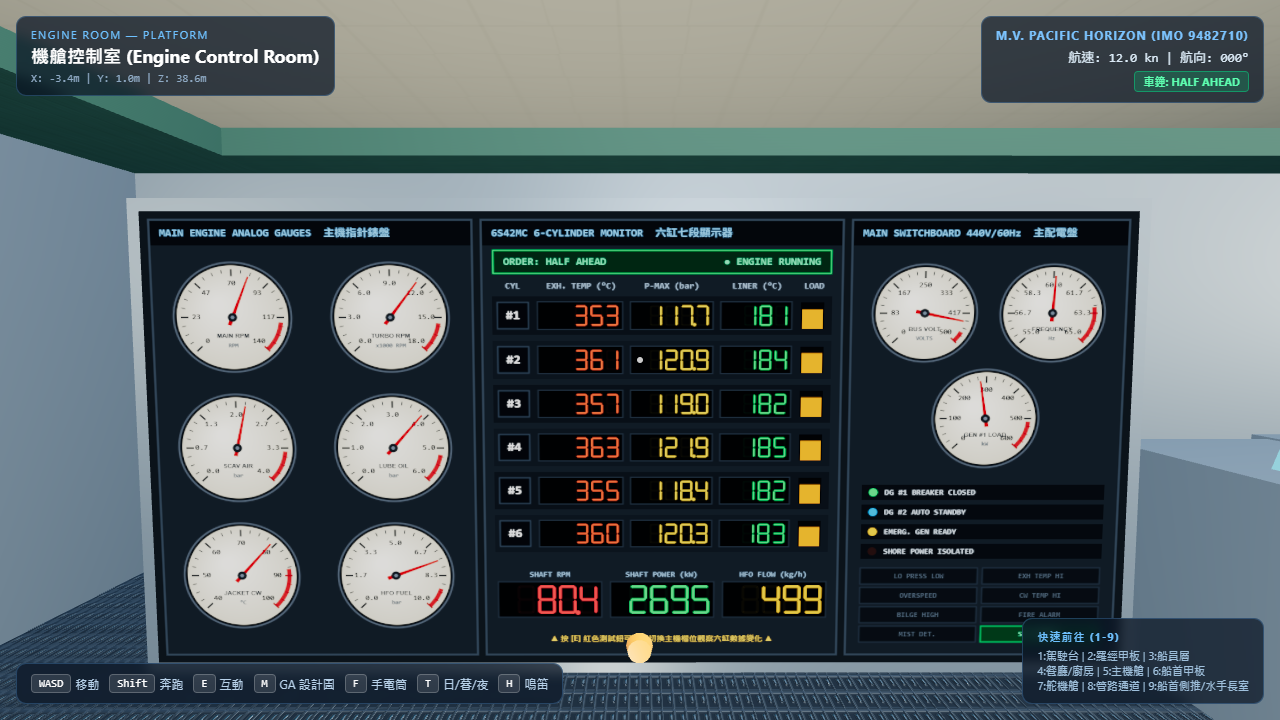
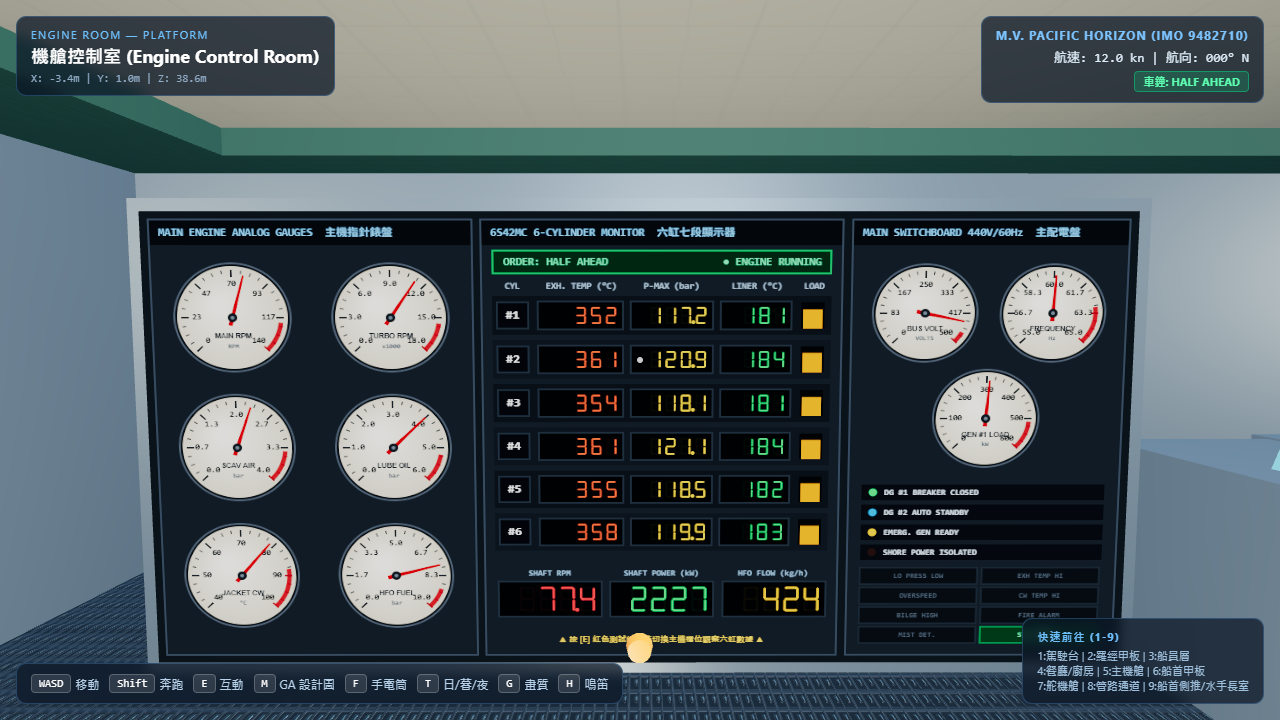
Major 4-stage performance boost: 6-light pool, static mesh merging, smart shadows, quality mode & FPS HUD

diff --git a/index.html b/index.html
@@ -189,6 +189,7 @@
     <span><kbd>M</kbd> GA 設計圖</span>
     <span><kbd>F</kbd> 手電筒</span>
     <span><kbd>T</kbd> 日/暮/夜</span>
+    <span><kbd>G</kbd> 畫質</span>
     <span><kbd>H</kbd> 鳴笛</span>
   </div>
 
@@ -226,7 +227,8 @@
   const container = document.getElementById('canvas-container');
   const renderer = new THREE.WebGLRenderer({ antialias: true, powerPreference: 'high-performance' });
   renderer.setSize(window.innerWidth, window.innerHeight);
-  renderer.setPixelRatio(Math.min(window.devicePixelRatio, 2));
+  // Default Balanced DPR (<=1.25 cuts 4K/Retina pixel fill by ~60% with crisp visuals; toggle [G] for Ultra/Performance!)
+  renderer.setPixelRatio(Math.min(window.devicePixelRatio, 1.25));
   renderer.shadowMap.enabled = true;
   renderer.shadowMap.type = THREE.PCFSoftShadowMap;
   renderer.outputEncoding = THREE.sRGBEncoding;
@@ -265,11 +267,11 @@
   scene.add(sunLight);
   scene.add(sunLight.target);
 
-  // Flashlight attached to camera (with real-time shadows!)
+  // Flashlight attached to camera (shadows dynamically enabled ONLY when flashlight is ON!)
   const flashlight = new THREE.SpotLight(0xfff6e0, 0, 38, Math.PI / 4.2, 0.55, 1.25);
   flashlight.position.set(0, -0.08, 0);
   flashlight.target.position.set(0, -0.08, -1);
-  flashlight.castShadow = true;
+  flashlight.castShadow = false;
   flashlight.shadow.mapSize.width = 1024;
   flashlight.shadow.mapSize.height = 1024;
   flashlight.shadow.camera.near = 0.25;
@@ -1096,6 +1098,7 @@
     if (len < 0.1) return;
     const angle = Math.atan2(dx, dz);
     const group = new THREE.Group();
+    group.userData.mergeable = true;
     group.position.set((x1 + x2) / 2, yBase, (z1 + z2) / 2);
     group.rotation.y = angle;
 
@@ -1222,7 +1225,45 @@
     ctx.fillRect(0, 0, w, h);
   });
 
-  // Helper: Interior Ceiling Light
+  // Helper: Interior Ceiling Light (Virtual Light Descriptor -> Dynamic 6-Light Pool for 3x-5x GPU FPS!)
+  const LIGHT_POOL_SIZE = 6;
+  const lightPool = [];
+  for (let i = 0; i < LIGHT_POOL_SIZE; i++) {
+    const pl = new THREE.PointLight(0xfff3dd, 0, 16, 1.4);
+    pl.position.set(0, -999, 0);
+    shipGroup.add(pl);
+    lightPool.push(pl);
+  }
+  let lightPoolTimer = 99;
+  function updateLightPool(dt, isPitchBlack) {
+    lightPoolTimer += dt;
+    if (lightPoolTimer < 0.12) return;
+    lightPoolTimer = 0;
+    if (isPitchBlack) {
+      for (let i = 0; i < LIGHT_POOL_SIZE; i++) lightPool[i].intensity = 0;
+      return;
+    }
+    const px = player.pos.x, py = player.pos.y + 1.4, pz = player.pos.z;
+    // Score all virtual interior lights by distance (heavily favoring current deck Y)
+    const ranked = interiorLights.map(vl => {
+      const dx = vl.pos.x - px, dy = (vl.pos.y - py) * 2.4, dz = vl.pos.z - pz;
+      return { vl, d2: dx * dx + dy * dy + dz * dz };
+    });
+    ranked.sort((a, b) => a.d2 - b.d2);
+    for (let i = 0; i < LIGHT_POOL_SIZE; i++) {
+      const pl = lightPool[i];
+      if (i < ranked.length && ranked[i].d2 < 900) {
+        const vl = ranked[i].vl;
+        pl.position.copy(vl.pos);
+        pl.color.copy(vl.color);
+        pl.intensity = vl.intensity;
+        pl.distance = vl.distance;
+      } else {
+        pl.intensity = 0;
+      }
+    }
+  }
+
   function addInteriorLight(x, y, z, intensity = 0.85, distance = 16, color = 0xfff3dd) {
     const bulb = new THREE.Mesh(
       new THREE.BoxGeometry(0.9, 0.08, 0.22),
@@ -1237,11 +1278,9 @@
     halo.position.set(x, y - 0.08, z);
     halo.scale.set(1.6, 0.9, 1);
     shipGroup.add(halo);
-    const light = new THREE.PointLight(color, intensity, distance, 1.4);
-    light.position.set(x, y - 0.25, z);
-    shipGroup.add(light);
-    interiorLights.push(light);
-    return light;
+    const vLight = { pos: new THREE.Vector3(x, y - 0.25, z), intensity, distance, color: new THREE.Color(color) };
+    interiorLights.push(vLight);
+    return vLight;
   }
 
   // Helper: 1:1 Marine Sanitary Fixtures (Toilet, Washbasin+Mirror, Shower Unit)
@@ -3355,6 +3394,92 @@
   buildCompassDeck();
 
   // =========================================================================
+  // STATIC GEOMETRY MERGER (Collapses ~1,200+ static meshes into ~35 Draw Calls!)
+  // =========================================================================
+  function mergeStaticShipMeshes() {
+    shipGroup.updateMatrixWorld(true);
+    const skip = new Set();
+    interactables.forEach(it => { if (it.mesh) skip.add(it.mesh); });
+    if (radarScanner1) skip.add(radarScanner1);
+    if (radarScanner2) skip.add(radarScanner2);
+
+    const buckets = new Map();
+    const toRemove = [];
+
+    function collectMesh(mesh) {
+      if (!mesh.isMesh || skip.has(mesh)) return;
+      if (!mesh.geometry || Array.isArray(mesh.material) || !mesh.material) return;
+      if (mesh.material.map === ecrPanelTex || mesh.material.map === radarTex) return;
+      const mat = mesh.material;
+      // Disable sun shadow casting for below-deck / interior meshes to slash shadow pass cost
+      const worldY = mesh.matrixWorld.elements[13];
+      const castS = mesh.castShadow && worldY >= 3.6;
+      const key = `${mat.id}|${castS ? 1 : 0}|${mesh.receiveShadow ? 1 : 0}`;
+      if (!buckets.has(key)) buckets.set(key, { mat, castS, recvS: mesh.receiveShadow, meshes: [] });
+      buckets.get(key).meshes.push(mesh);
+    }
+
+    for (let i = 0; i < shipGroup.children.length; i++) {
+      const child = shipGroup.children[i];
+      if (child.isMesh) {
+        collectMesh(child);
+      } else if (child.isGroup && child.userData && child.userData.mergeable) {
+        child.children.forEach(c => collectMesh(c));
+        toRemove.push(child);
+      }
+    }
+
+    buckets.forEach(({ mat, castS, recvS, meshes }) => {
+      if (meshes.length < 2) return;
+      const geoms = [];
+      let totalVerts = 0;
+      let hasUV = true;
+
+      for (let i = 0; i < meshes.length; i++) {
+        const m = meshes[i];
+        const g = m.geometry.index ? m.geometry.toNonIndexed() : m.geometry.clone();
+        g.applyMatrix4(m.matrixWorld);
+        if (!g.attributes.normal) g.computeVertexNormals();
+        if (!g.attributes.uv) hasUV = false;
+        totalVerts += g.attributes.position.count;
+        geoms.push(g);
+      }
+
+      const positions = new Float32Array(totalVerts * 3);
+      const normals = new Float32Array(totalVerts * 3);
+      const uvs = hasUV ? new Float32Array(totalVerts * 2) : null;
+      let offset = 0;
+
+      for (let i = 0; i < geoms.length; i++) {
+        const g = geoms[i];
+        const pos = g.attributes.position.array;
+        const norm = g.attributes.normal.array;
+        positions.set(pos, offset * 3);
+        normals.set(norm, offset * 3);
+        if (hasUV) uvs.set(g.attributes.uv.array, offset * 2);
+        offset += g.attributes.position.count;
+        g.dispose();
+      }
+
+      const merged = new THREE.BufferGeometry();
+      merged.setAttribute('position', new THREE.BufferAttribute(positions, 3));
+      merged.setAttribute('normal', new THREE.BufferAttribute(normals, 3));
+      if (hasUV) merged.setAttribute('uv', new THREE.BufferAttribute(uvs, 2));
+      merged.computeBoundingSphere();
+
+      const mergedMesh = new THREE.Mesh(merged, mat);
+      mergedMesh.castShadow = castS;
+      mergedMesh.receiveShadow = recvS;
+      shipGroup.add(mergedMesh);
+
+      meshes.forEach(m => { if (m.parent === shipGroup) shipGroup.remove(m); });
+    });
+
+    toRemove.forEach(g => shipGroup.remove(g));
+  }
+  mergeStaticShipMeshes();
+
+  // =========================================================================
   // 5. DYNAMIC OCEAN & SHIP WAKE (GPU Gerstner/Wave Normals + Fresnel + Sun Glitter)
   // =========================================================================
   const oceanGeo = new THREE.PlaneGeometry(1600, 1600, 128, 128);
@@ -3907,11 +4032,22 @@
     }
     if (!pointerLocked) return;
 
+    // Graphics Quality Modes: 0 = Balanced (1.25x DPR, Shadows ON), 1 = Performance (1.0x DPR, Shadows OFF), 2 = Ultra (2.0x DPR, Shadows ON)
     if (e.code === 'KeyF') {
       player.flashlightOn = !player.flashlightOn;
       flashlight.intensity = player.flashlightOn ? 3.8 : 0;
+      flashlight.castShadow = player.flashlightOn && qualityMode !== 1;
       playClickSound(player.flashlightOn ? 440 : 300);
       showToast(player.flashlightOn ? '手電筒：開啟' : '手電筒：關閉');
+    } else if (e.code === 'KeyG') {
+      qualityMode = (qualityMode + 1) % 3;
+      const dprCap = qualityMode === 0 ? 1.25 : (qualityMode === 1 ? 1.0 : 2.0);
+      renderer.setPixelRatio(Math.min(window.devicePixelRatio, dprCap));
+      renderer.shadowMap.enabled = (qualityMode !== 1);
+      flashlight.castShadow = player.flashlightOn && qualityMode !== 1;
+      const qNames = ['平衡模式 (1.25x + 陰影)', '極速模式 (1.0x 無陰影)', '高畫質模式 (2.0x + 陰影)'];
+      playClickSound(400);
+      showToast(`畫質切換：${qNames[qualityMode]}`);
     } else if (e.code === 'KeyV') {
       camera.fov = camera.fov < 65 ? 72 : 58;
       camera.updateProjectionMatrix();
@@ -4363,6 +4499,9 @@
     return;
   }
 
+  let qualityMode = 0; // 0: Balanced, 1: Performance, 2: Ultra
+  let raycastTimer = 0;
+  let fpsFrames = 0, fpsAcc = 0, currentFps = 60;
   const clock = new THREE.Clock();
   let hudTimer = 0;
 
@@ -4467,12 +4606,16 @@
       if (scene.environment !== null) scene.environment = null; // Cut outdoor sky PMREM IBL for TRUE 100% darkness!
       hemiLight.intensity = 0.0;
       sunLight.intensity = 0.0;
+      sunLight.castShadow = false;
     } else {
       if (envRT && scene.environment !== envRT.texture) scene.environment = envRT.texture;
       hemiLight.intensity = baseHemiIntensity * (1.0 - curInteriorFactor * 0.82);
       const belowWaterDarken = py < 3.5 ? 0.78 : 0.0;
       sunLight.intensity = baseSunIntensity * (1.0 - curInteriorFactor * belowWaterDarken);
+      // Skip 2048x2048 sun shadow pass when deep inside enclosed below-deck spaces or in Performance mode!
+      sunLight.castShadow = (qualityMode !== 1) && (curInteriorFactor < 0.72) && (sunLight.intensity > 0.05);
     }
+    updateLightPool(dt, isPitchBlackSpace);
     renderer.toneMappingExposure = 0.88;
 
     // 2. Animate Doors & Accommodation Ladders
@@ -4540,10 +4683,22 @@
       engineOsc.frequency.setTargetAtTime(28 + Math.abs(currentKnots) * 1.5, audioCtx.currentTime, 0.15);
     }
 
-    // Update Radar Display, ECR Live 6-Cylinder Telemetry Cabinet & HUD
+    // Update Radar Display, ECR Live 6-Cylinder Telemetry Cabinet & Throttled 10Hz Raycaster
     updateRadarTexture(elapsed, dt);
     updateEcrPanel(elapsed, dt);
-    updateInteractionCheck();
+    raycastTimer += dt;
+    if (raycastTimer >= 0.1) {
+      raycastTimer = 0;
+      updateInteractionCheck();
+    }
+
+    fpsFrames++;
+    fpsAcc += dt;
+    if (fpsAcc >= 0.5) {
+      currentFps = Math.round(fpsFrames / fpsAcc);
+      fpsFrames = 0;
+      fpsAcc = 0;
+    }
 
     hudTimer += dt;
     if (hudTimer > 0.15) {
@@ -4552,7 +4707,7 @@
       locDeckEl.textContent = deckName;
       locRoomEl.textContent = roomName;
       locCoordsEl.textContent = `X: ${player.pos.x.toFixed(1)}m | Y: ${player.pos.y.toFixed(1)}m | Z: ${player.pos.z.toFixed(1)}m`;
-      shipStatsEl.textContent = `航速: ${currentKnots.toFixed(1)} kn | 航向: ${String(shipHeading).padStart(3, '0')}°`;
+      shipStatsEl.textContent = `航速: ${currentKnots.toFixed(1)} kn | ${currentFps} FPS | Calls: ${renderer.info.render.calls}`;
       telegraphBadgeEl.textContent = `車鐘: ${targetMode.name}`;
     }
 
